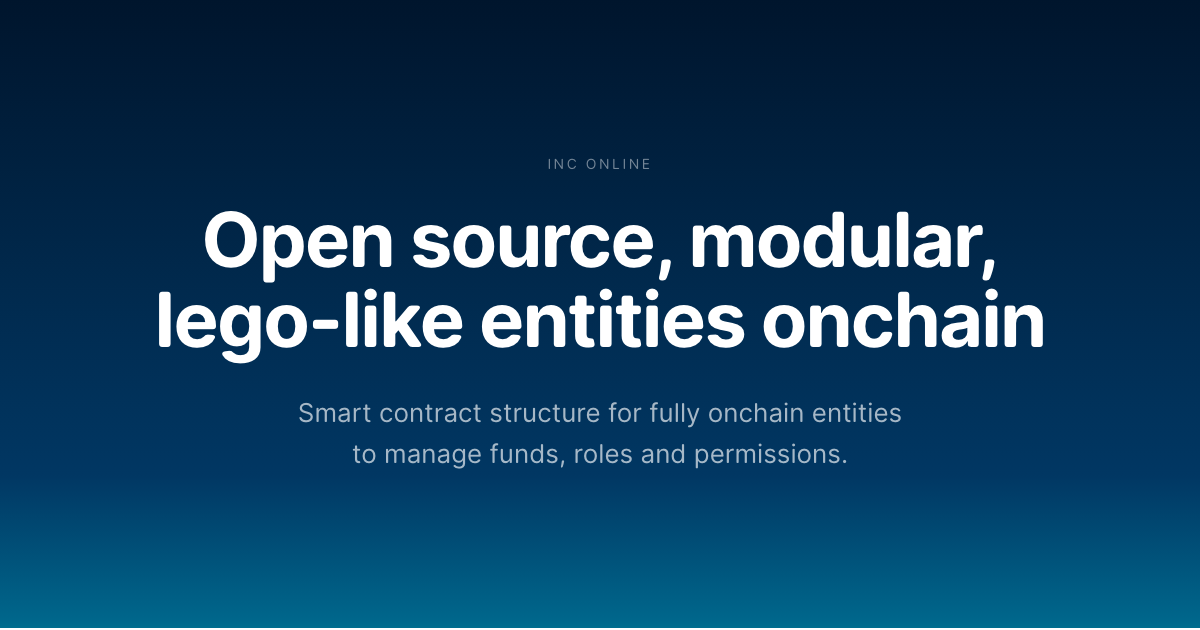
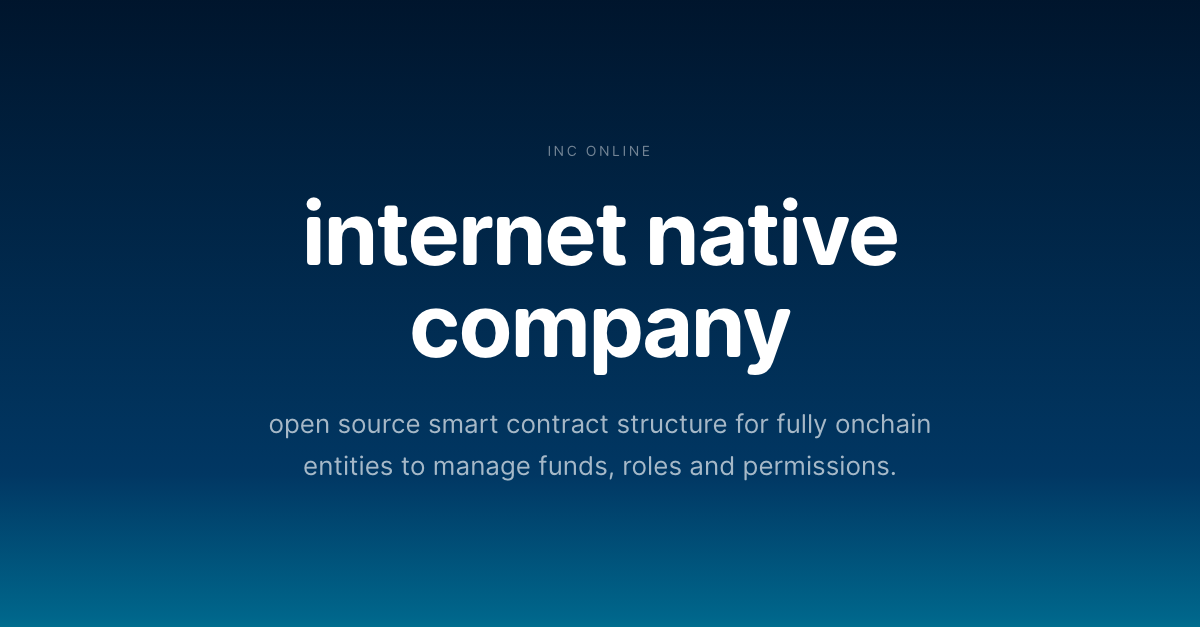
fix meta

diff --git a/landing/index.html b/landing/index.html
@@ -4,17 +4,16 @@
     <meta charset="UTF-8" />
     <meta name="viewport" content="width=device-width, initial-scale=1.0" />
 
-    <title>inc online — open source, modular, lego-like entities onchain</title>
-    <meta name="description" content="An open source, modular, lego-like smart contract structure for fully onchain entities to manage funds, roles and permissions." />
+    <title>internet native company</title>
 
     <!-- Favicon -->
     <link rel="icon" type="image/svg+xml" href="/favicon.svg" />
+    <link rel="manifest" href="/manifest.json" />
 
     <!-- Open Graph -->
     <meta property="og:type" content="website" />
     <meta property="og:url" content="https://inc.online" />
-    <meta property="og:title" content="inc online — open source, modular, lego-like entities onchain" />
-    <meta property="og:description" content="An open source, modular, lego-like smart contract structure for fully onchain entities to manage funds, roles and permissions." />
+    <meta property="og:title" content="internet native company" />
     <meta property="og:image" content="https://inc.online/preview.png" />
     <meta property="og:image:width" content="1200" />
     <meta property="og:image:height" content="630" />
@@ -22,8 +21,7 @@
     <!-- Twitter Card -->
     <meta name="twitter:card" content="summary_large_image" />
     <meta name="twitter:url" content="https://inc.online" />
-    <meta name="twitter:title" content="inc online — open source, modular, lego-like entities onchain" />
-    <meta name="twitter:description" content="An open source, modular, lego-like smart contract structure for fully onchain entities to manage funds, roles and permissions." />
+    <meta name="twitter:title" content="internet native company" />
     <meta name="twitter:image" content="https://inc.online/preview.png" />
   </head>
   <body>
